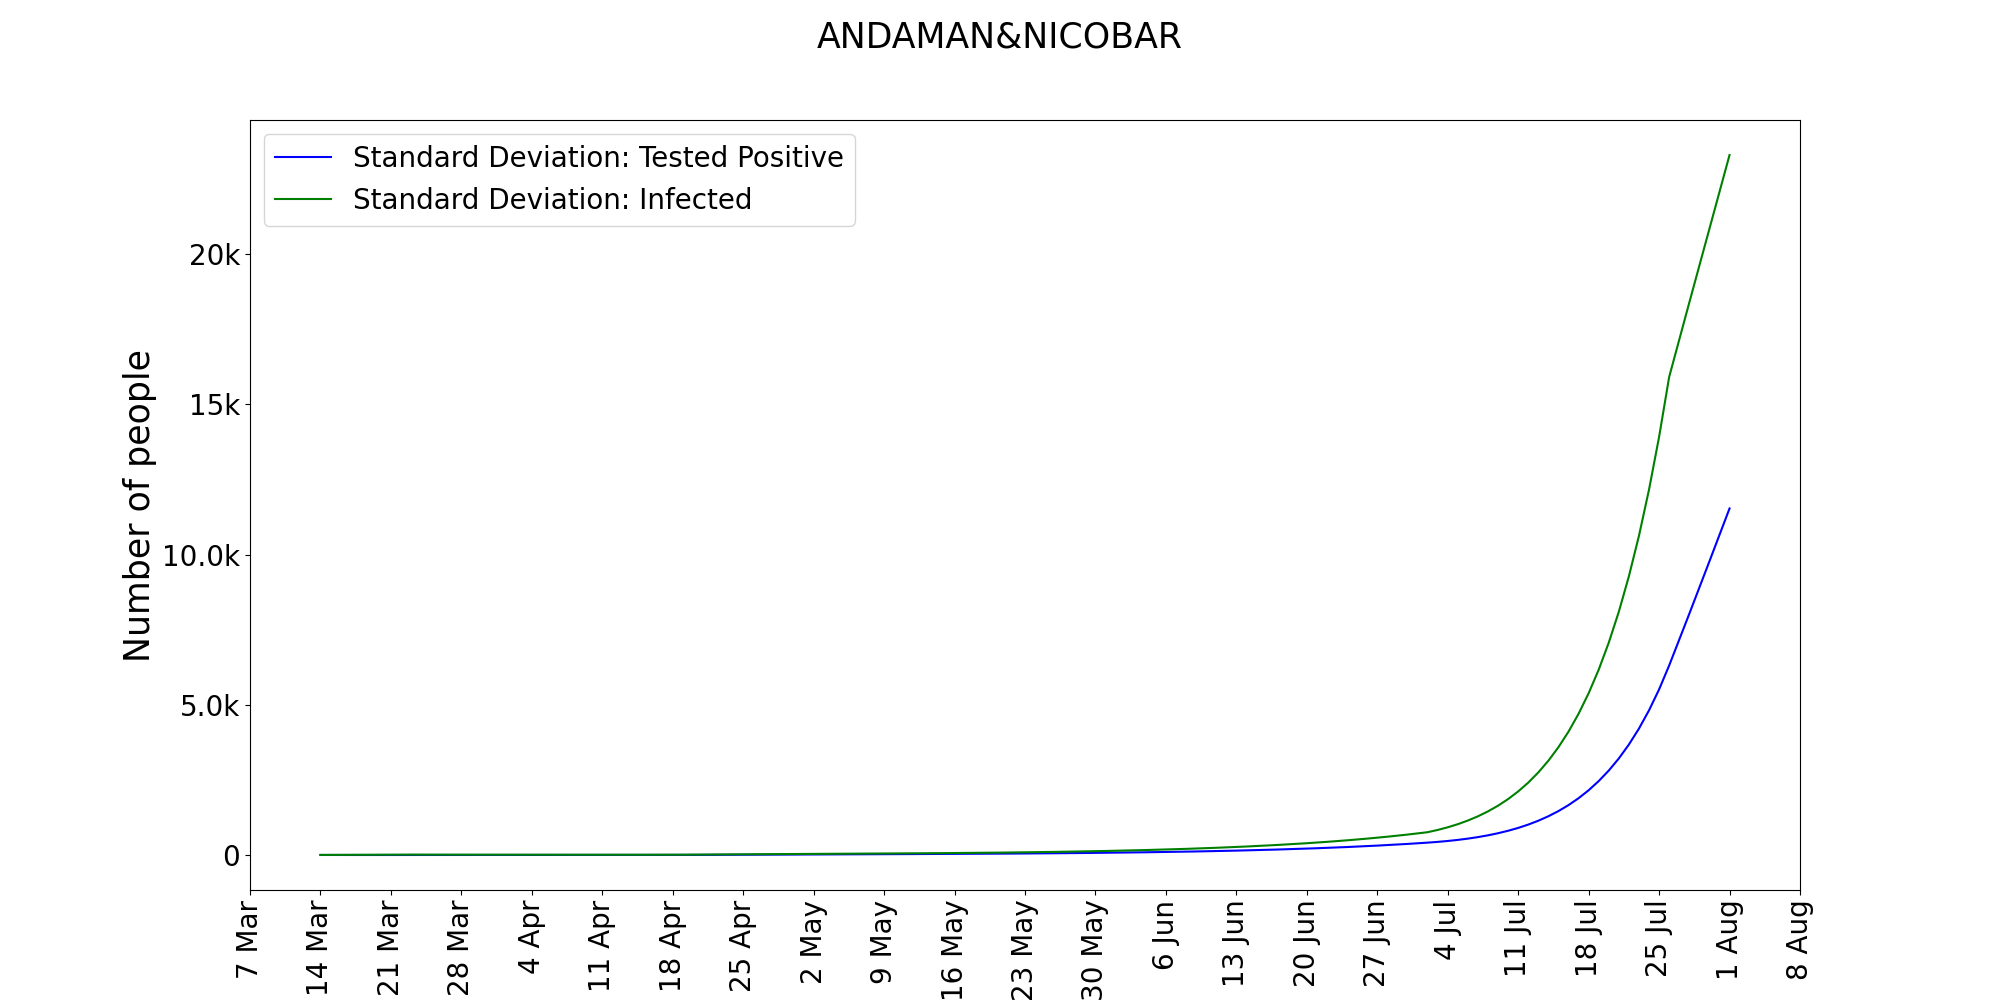
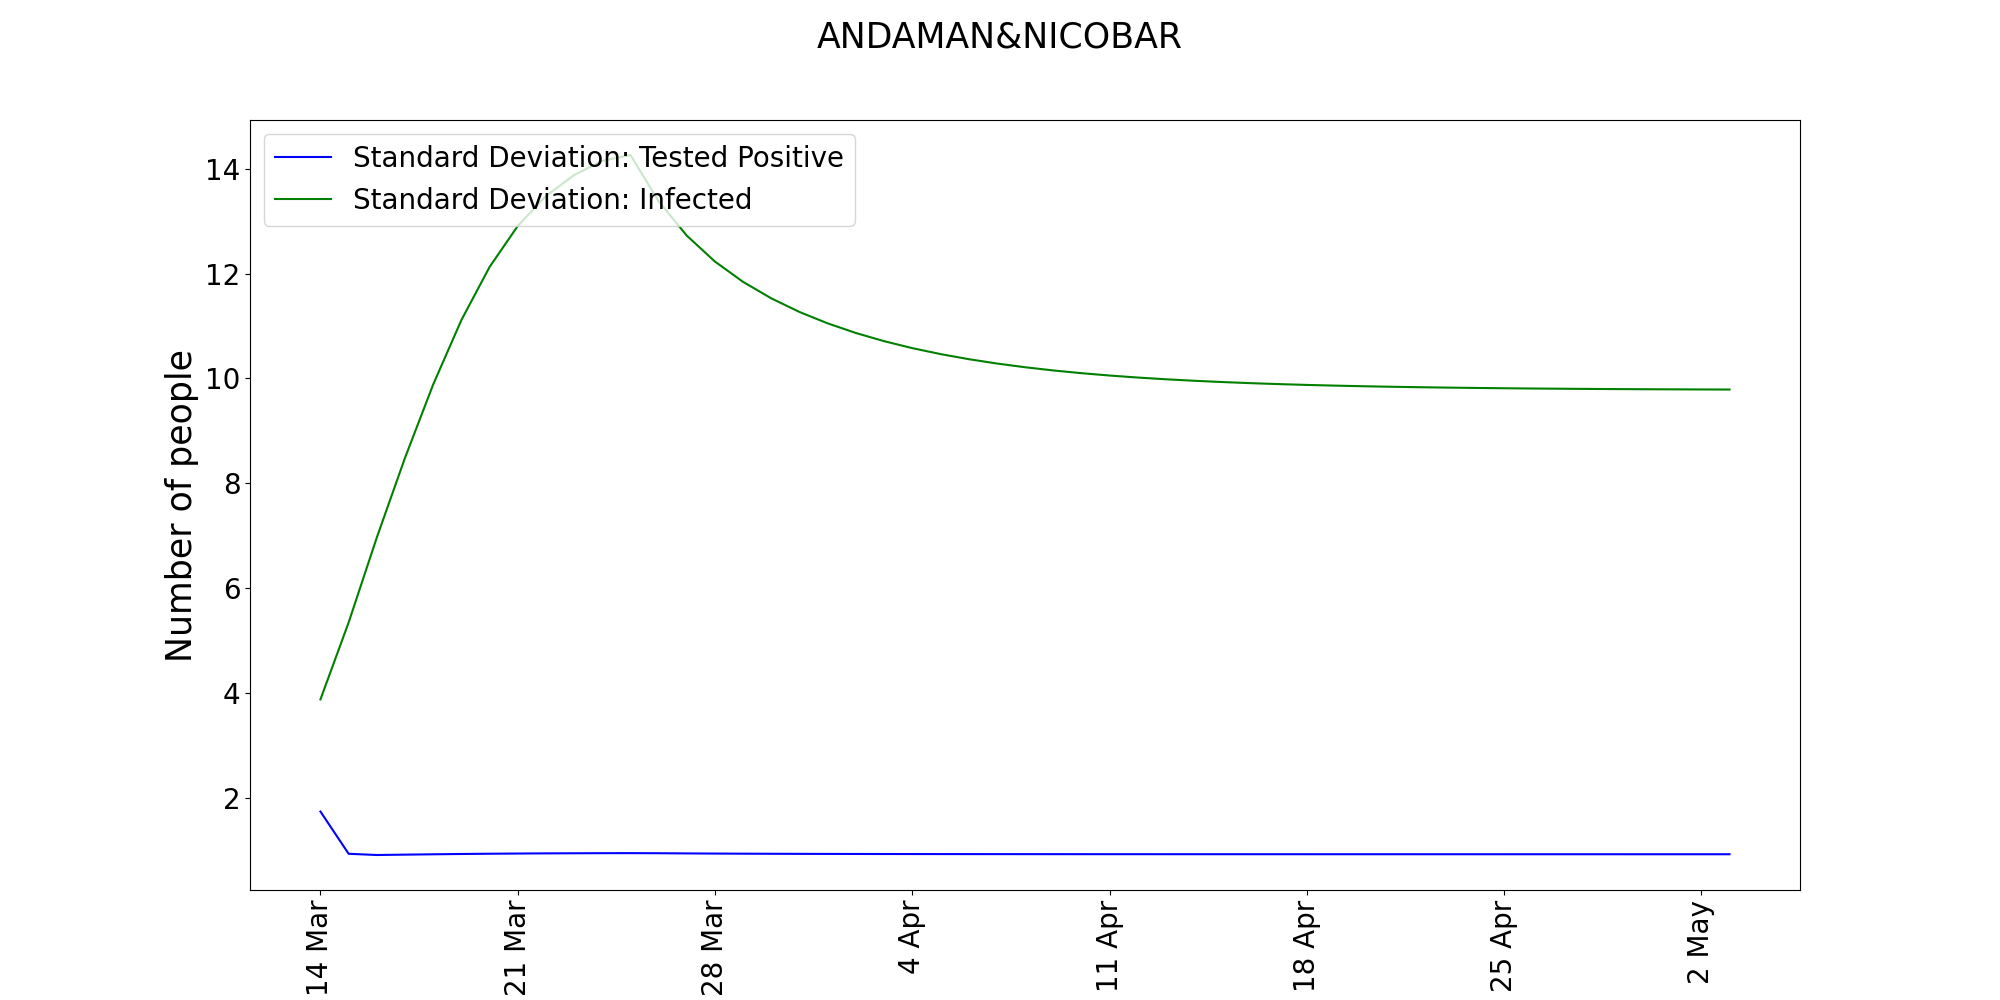
added auto state detection and exit from lockdown as well

diff --git a/Model.py b/Model.py
@@ -315,13 +315,24 @@ class SpaxireAgeStratified () :
         ct = cw + co + ch + cs
 
         ####################################### CHANGE PARAMETERS IF THINGS ARE NUMBER OF POSITIVES IS ABOVE A THRESHOLD ########################################
-        if p.sum() > self.N.sum() * 0.005 and delta_t > Date('3 May') - startDate:
+        threhold = 0.005
+        if p.sum() > self.N.sum() * threhold and delta_t > Date('3 May') - startDate:
             # Make whatever changes are needed here
             ct = 0.4 * (cw + co) + ch
+            if not self.isInHeterogenousLockdown:
+                self.originalTransportMatrixRow = self.parentModel.transportMatrix[self.stateId, :]
+                self.originalTransportMatrixCol = self.parentModel.transportMatrix[:, self.stateId]
+                self.originalTotalOut = self.totalOut
             self.parentModel.transportMatrix[self.stateId, :] = 0.
             self.parentModel.transportMatrix[:, self.stateId] = 0.
-            self.totalOut = 0.
+            self.totalOut = 0.            
             self.isInHeterogenousLockdown = True
+
+        elif self.isInHeterogenousLockdown and p.sum() < self.N.sum() * threhold:
+            self.isInHeterogenousLockdown = False
+            self.parentModel.transportMatrix[self.stateId, :] = self.originalTransportMatrixRow
+            self.parentModel.transportMatrix[:, self.stateId] = self.originalTransportMatrixCol
+            self.totalOut = self.originalTotalOut
         ##################################################################################################################################
         # convert depending on usage of this function
 

diff --git a/Util.py b/Util.py
@@ -28,6 +28,12 @@ class DateIter () :
     def __len__ (self) : 
         return self.end - self.start
 
+def getAllPlaces(directory = "Data/time_series/"):
+    ignore = set(["TOTAL"])
+    allPlaces = [x.replace(".csv", "").strip().upper() for x in os.listdir(directory)]
+    allPlaces = [x for x in allPlaces if x not in ignore]
+    return allPlaces
+
 class Date () : 
 
     MONTHS = ['Jan', 'Feb', 'Mar', 
